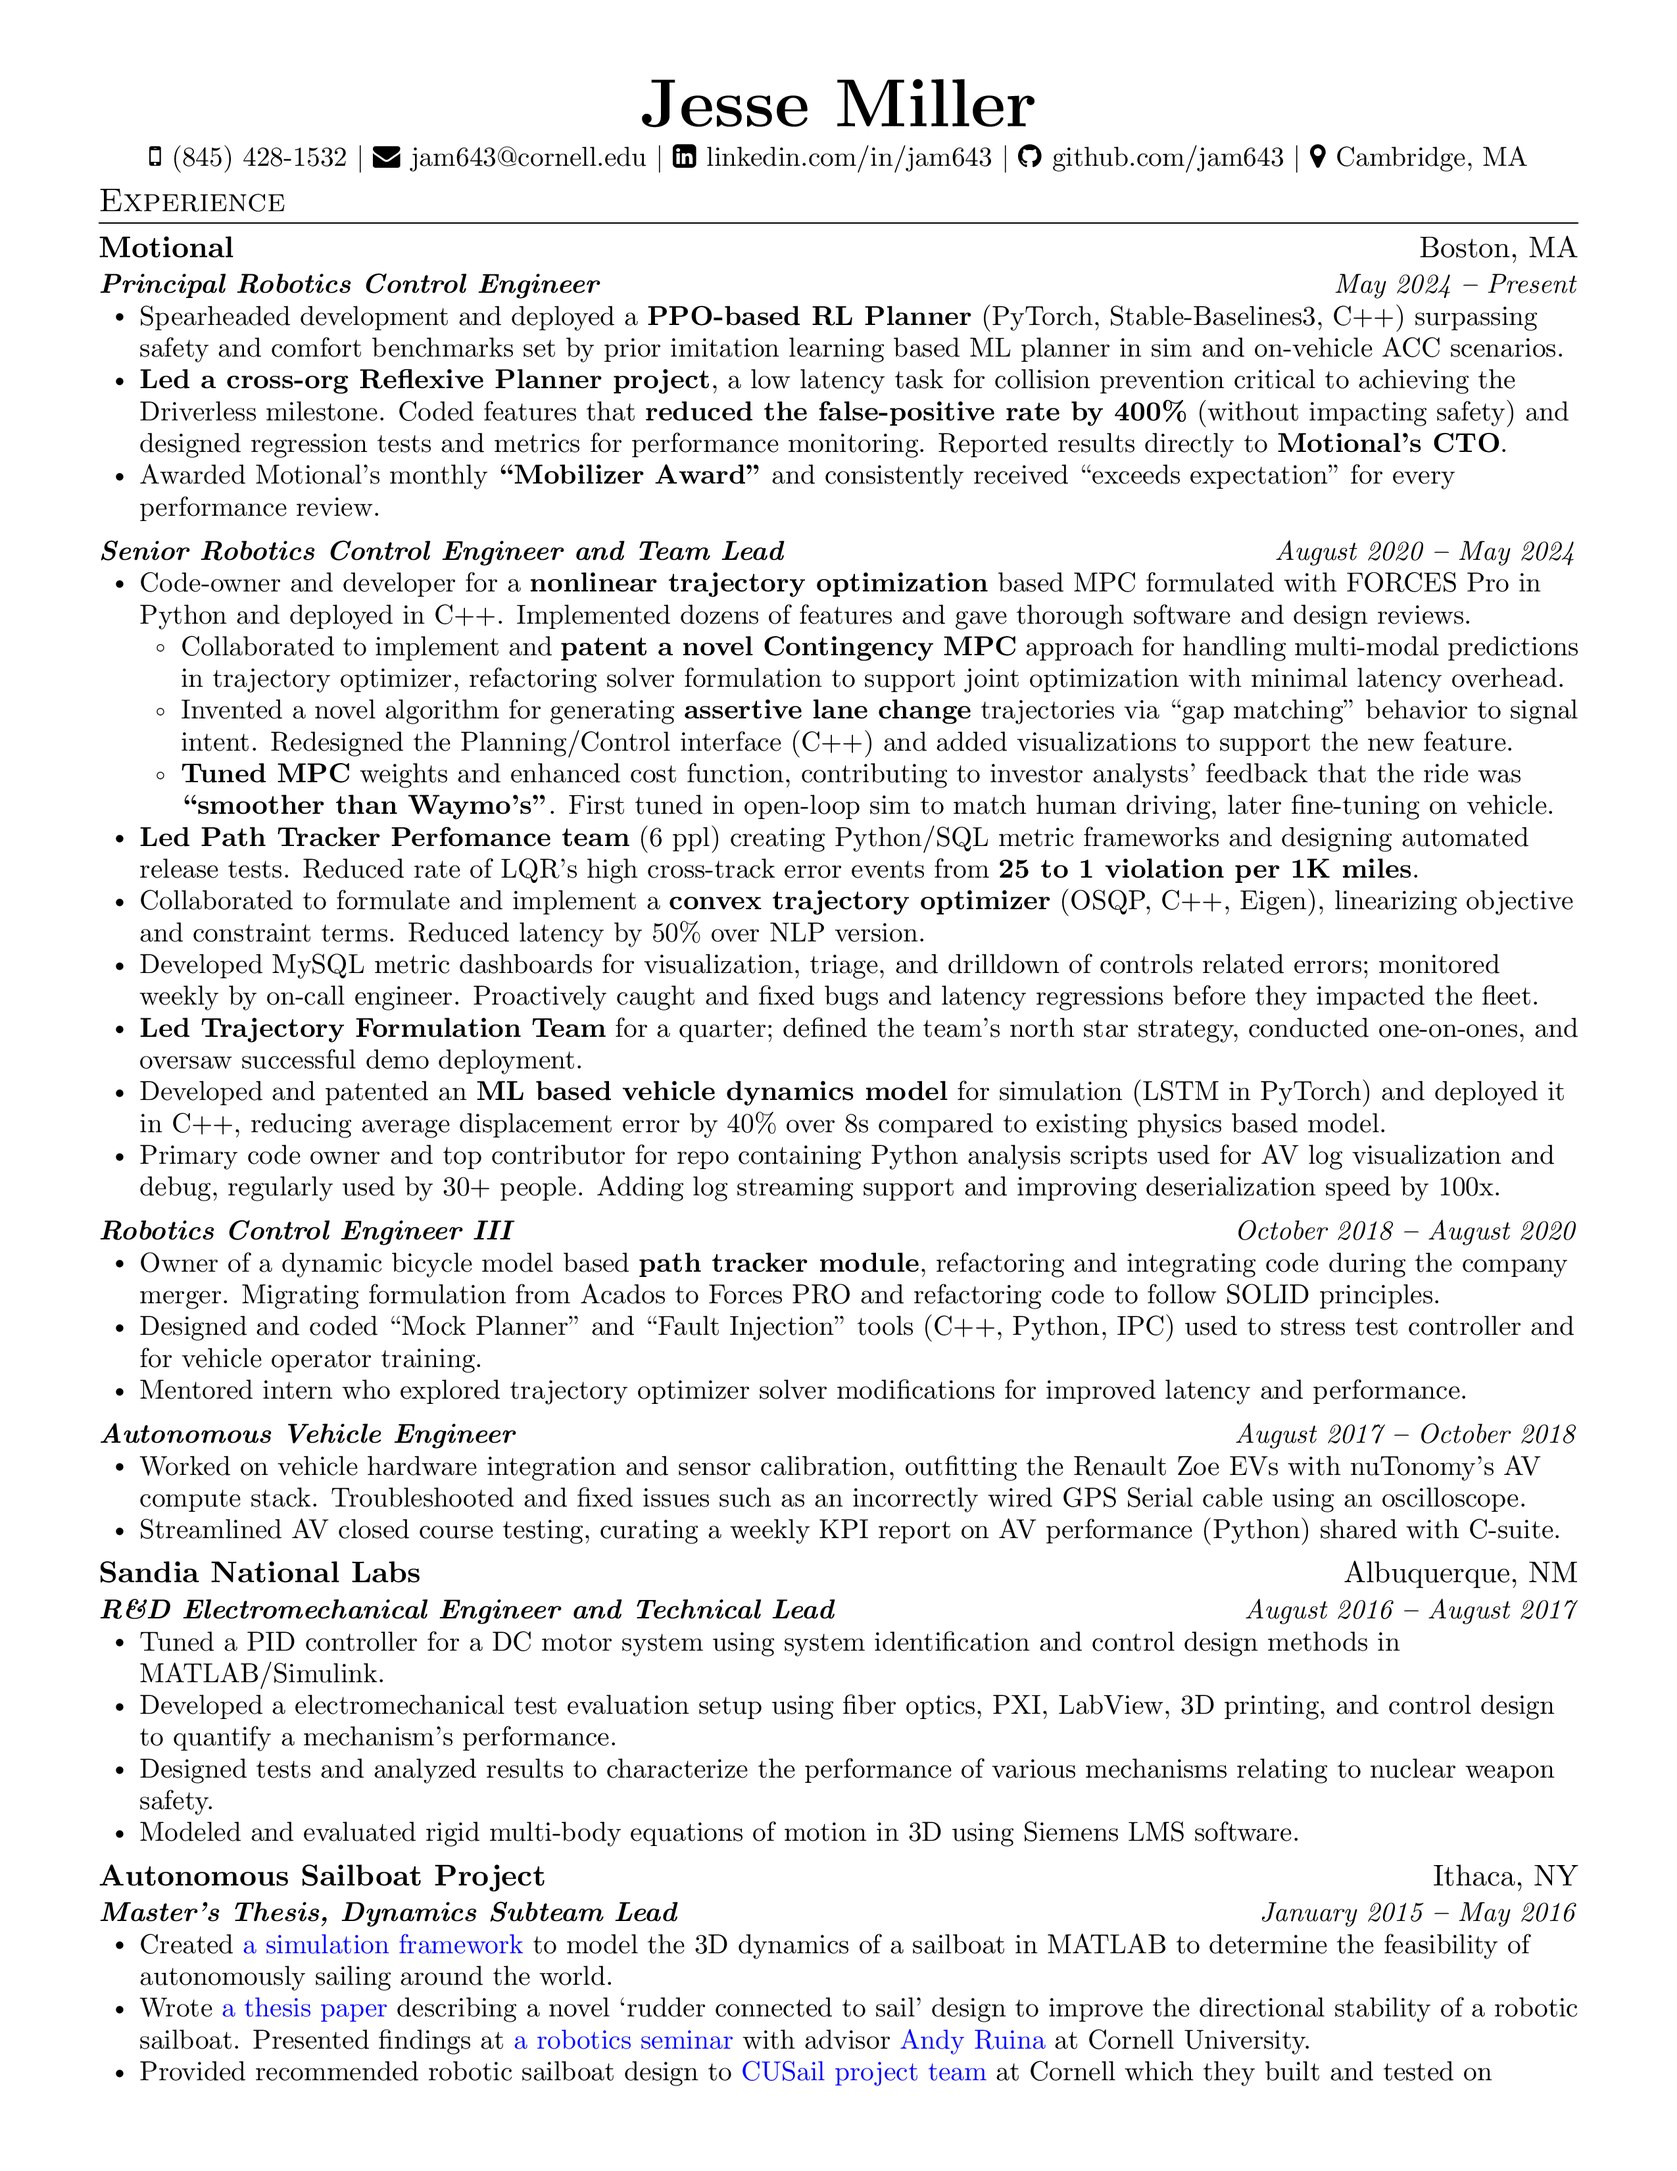
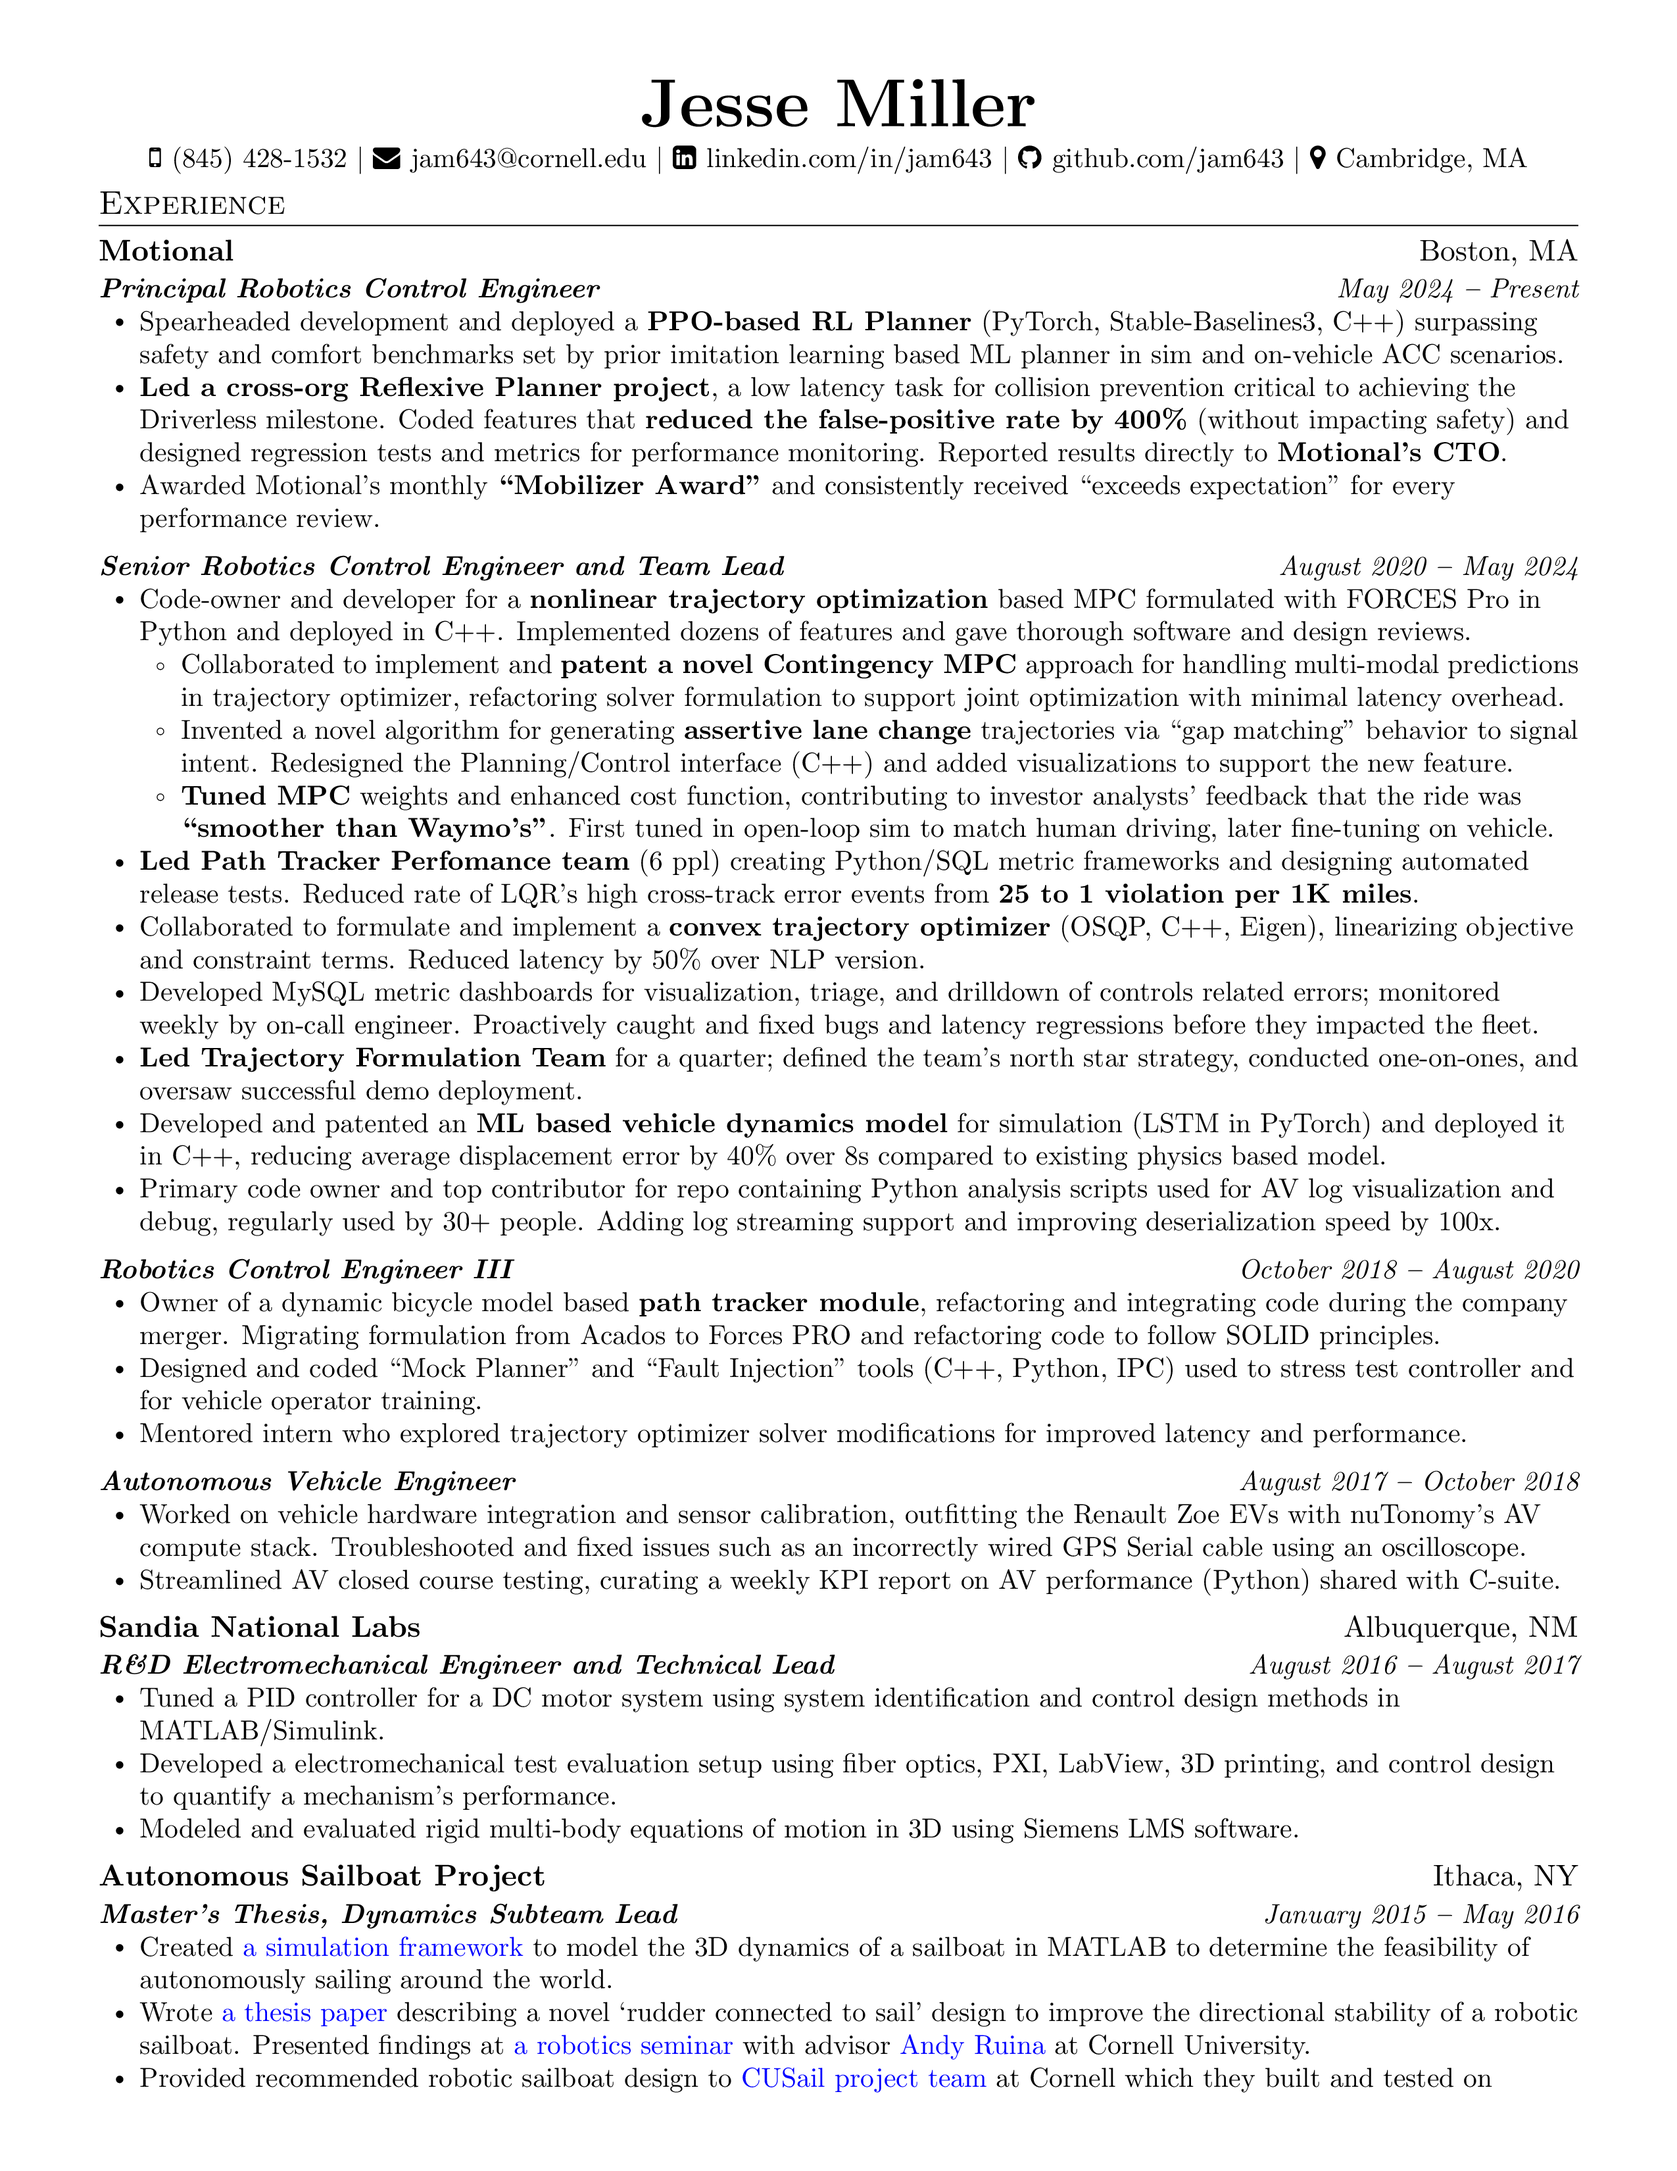
small edits

diff --git a/jesse_miller_resume.tex b/jesse_miller_resume.tex
@@ -32,6 +32,7 @@
 \usepackage{etoolbox}  % for conditional logic
 \usepackage{csquotes}
 
+
 % is_long_version = true will render more detailed resume
 \newtoggle{is_long_version} % Define the boolean variable
 \settoggle{is_long_version}{false}
@@ -70,12 +71,12 @@
 
 \iftoggle{is_long_version}
 {\linespread{1.0}}  % single line spacing
-{\linespread{0.97}}  % single line spacing
+{\linespread{1.0}}  % single line spacing
 \setlength{\parskip}{0pt} % paragraph spacing
 
 % bullet list spacing
 \setlist[itemize]{itemsep=0pt} % vertical spacing between bullets
-\def\vspaceAfterBullets{3pt} % vertical spacing after bullet lists
+\def\vspaceAfterBullets{4pt} % vertical spacing after bullet lists
 \def\bulletIndent{15pt} % indent of bullet lists
 
 % set bullet list symbol formatting
@@ -104,7 +105,7 @@
 \newcommand{\titleAndDateHeading}[2]{
     \item
     \begin{tabular*}{1.0\textwidth}[b]{l@{\extracolsep{\fill}}r}
-      \textit{\textbf{\small#1}} & \textit{\small #2}
+      {\bfseries\itshape\small #1} & \itshape\small #2
     \end{tabular*}
 }
 
@@ -217,7 +218,7 @@
 \outerBulletListStart
 \bulletItem{Tuned a PID controller for a DC motor system using system identification and control design methods in MATLAB/Simulink.}
 \bulletItem{Developed a electromechanical test evaluation setup using fiber optics, PXI, LabView, 3D printing, and control design to quantify a mechanism’s performance.}
-\toggletrue{is_long_version}
+\iftoggle{is_long_version}
 {
   \bulletItem{Designed tests and analyzed results to characterize the performance of various mechanisms relating to nuclear weapon safety.}
 }{}
@@ -252,11 +253,13 @@
 \titleAndDateHeading
 {Data Analyst and Performance Intern}{May 2015 \textbf{--} August 2015}
 \outerBulletListStart
-\bulletItem{Created a random forest ML predictor (Python, MySQL) to predict the time it takes to pick an item off a shelf.}
 \iftoggle{is_long_version}{
+  \bulletItem{Created a random forest ML predictor (Python, MySQL) to predict the time it takes to pick an item off a shelf.}
   \bulletItem{Designed a Linux service using Java and XML, allowing the predictor to be easily used.}
-}{}
-\bulletItem{Implemented the predictor service that improved metrics used to assess employee performance, saving the company millions and remaining in use years after my internship.}
+  \bulletItem{Implemented the predictor service that improved metrics used to assess employee performance, saving the company millions and remaining in use years after my internship.}
+}{
+  \bulletItem{Built and deployed a random forest ML predictor to forecast pick times (Python, MySQL), enhancing employee performance metrics and saving the company millions, remaining in use years post-internship.}
+}
 \outerBulletListEnd
 
 \companyNameAndLocationHeading
@@ -264,14 +267,8 @@
 \titleAndDateHeading
 {Engineering Co-op Student}{January 2014 \textbf{--} August 2014}
 \outerBulletListStart
-\bulletItem{\textbf{Invented} a unique idea to listen to the sounds produced by handwriting and transcribe what was written.}
-\innerBulletListStart
-\bulletItem{Developed and \bref{https://github.com/jam643/WriteHear/tree/master}{coded a MATLAB program} to transcribe handwriting by only using a microphone.}
-\bulletItem{\textbf{Won} \$15,000 in research funding by \bref{https://github.com/jam643/WriteHear/blob/master/WriteHear.pdf}{presenting my invention} in a \textbf{U.S. Air Force competition} against 37 others.}
-
-\innerBulletListEnd
-\bulletItem{Designed in NX Unigraphics and performed an experiment to test the effects of unsteady flow through an intercooler.}
-\bulletItem{Published and presented \bref{https://www.researchgate.net/publication/290192705_Effect_of_Unsteady_Flow_on_Intercooler_Performance}{a conference paper} based on these findings in the SAE 2014 Aerospace Conference.}
+\bulletItem{\textbf{Invented} and developed \bref{https://github.com/jam643/WriteHear/tree/master}{a MATLAB program} to transcribe handwriting using only a microphone, \textbf{winning \$15,000} in research funding from a \textbf{U.S. Air Force competition} against 37 others.}
+\bulletItem{Designed and conducted an experiment to test the effects of unsteady flow through an intercooler, resulting in a \bref{https://www.researchgate.net/publication/290192705_Effect_of_Unsteady_Flow_on_Intercooler_Performance}{published and presented paper} at the SAE 2014 Aerospace Conference.}
 \outerBulletListEnd
 
 \iftoggle{is_long_version}
@@ -336,7 +333,7 @@
 \sectionListStart
 \bulletItem{\textbf{Languages:}{ Python (3.x), Modern C++ (14, 17, 20), MATLAB, SQL, LabVIEW, C}}
 \vspace{\vspaceAfterBullets}
-\bulletItem{\textbf{Technologies:}{ PyTorch, FORCES Pro, Stable-Baselines3, OSQP, Ubuntu/Linux, Git, CMake, Bazel, \LaTeX, Jupyter Notebook, Simulink, OpenCV, Raspberry Pi, Arduino, SolidWorks, Blender}}
+\bulletItem{\textbf{Technologies:}{ PyTorch, FORCES Pro, Stable-Baselines3, OSQP, Ubuntu/Linux, Git, CMake, Bazel, \LaTeX, Jupyter Notebook, ROS, Simulink, OpenCV, Raspberry Pi, Arduino, SolidWorks, Blender}}
 \vspace{\vspaceAfterBullets}
 \bulletItem{\textbf{Continued Education:}{ \bref{https://github.com/jam643/CS285DeepRL/tree/master}{Deep Reinforcement Learning CS285}, \bref{https://github.com/jam643/UnderactuatedRobotics-6p832-JesseM}{Underactuated Robotics MIT 6.832}, \bref{https://github.com/jam643/Courses_JesseM/tree/master/DesignPatternsCpp}{Udemy Design Patterns in C++}}}
 \vspace{\vspaceAfterBullets}
